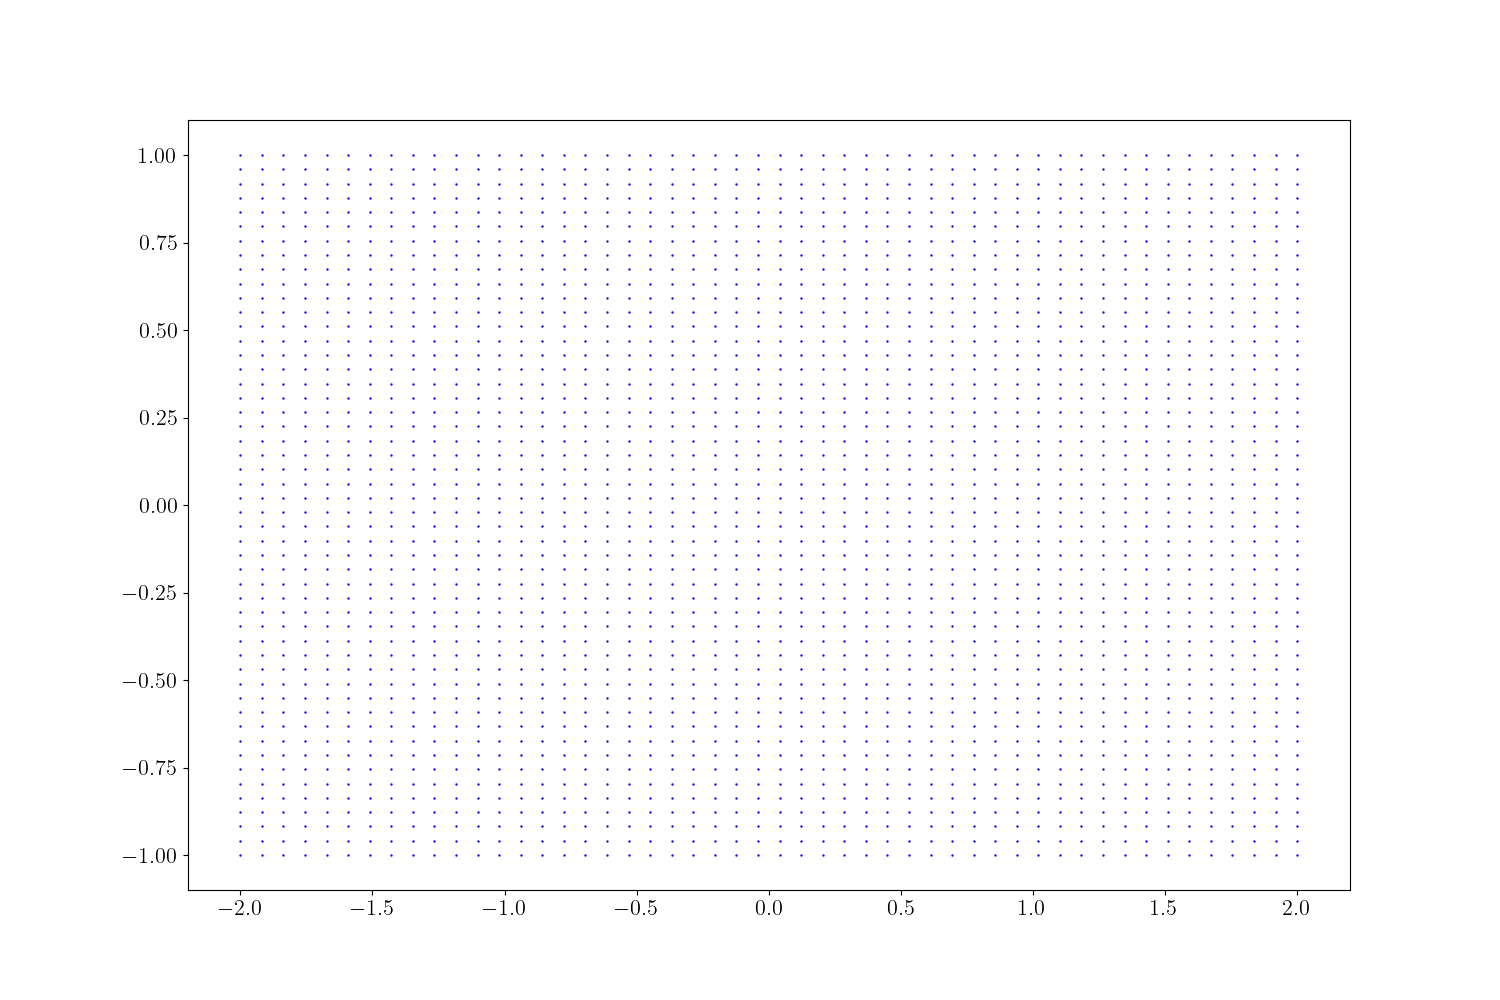
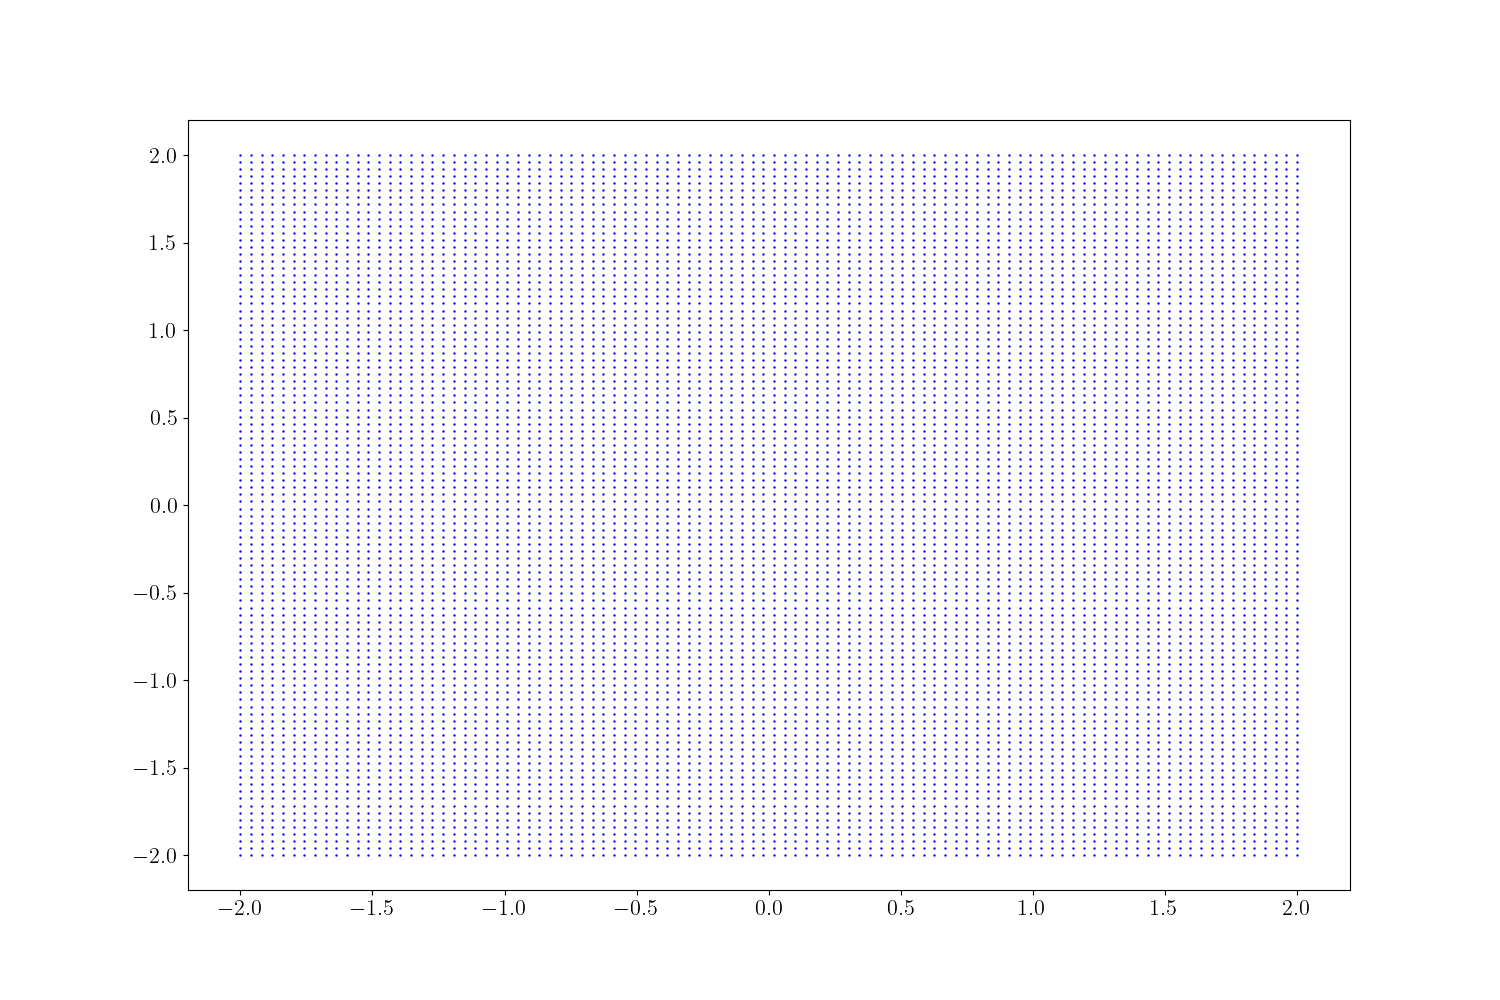
Fixed my Mandelbrot set function, it is still rather slow

diff --git a/Tareas/mandelbrot.py b/Tareas/mandelbrot.py
@@ -31,78 +31,85 @@ rc("text", usetex=True)
 #                                   CONSTANTS                                  #
 # ---------------------------------------------------------------------------- #
 INITIAL_VALUE = 0 + 0j
-RESOLUTION = 1000
-COMPLEX_MESH = np.ogrid[-2: 2: RESOLUTION * 1j, -2: 2: RESOLUTION * 1j]
+RESOLUTION = 100
+# COMPLEX_MESH = np.ogrid[-2: 2: RESOLUTION * 1j, -2: 2: RESOLUTION * 1j]
+REAL = np.linspace(-2, 0.48, RESOLUTION)
+IMAG = np.linspace(-1.12, 1.12, RESOLUTION)
+# COMPLEX_MESH = np.meshgrid(X, Y)
+# COMPLEX_MESH = np.ogrid[-2: 2: RESOLUTION * 1j, -2: 2: RESOLUTION * 1j]
 ITERATIONS = 30 
 EPSILON = 0.1
+TOWARDS_INF = 4
 # ---------------------------------------------------------------------------- #
 #                             z_{n + 1} = z_n^2 + c                            #
+
+#                                  If z_0 = 0                                  #
+
+#                           z_1 = 0^2 + c; c = a + bi                          #
+#                                 z_2 = c^2 + c                                #
+#                             z_2 = (a + bi)^2 + c                             #
+#                         z_2 = (a^2 + b^2) + 2abi + c                         #
 # ---------------------------------------------------------------------------- #
 def mandelbrot_set_equation(current_value: complex, c: complex) -> complex:
-    next_value = current_value**2 + c
+    a = current_value.real
+    b = current_value.imag
+    ac = c.real
+    ab = c.imag
+
+    next_a = a**2 - b**2
+    next_b = 2*a*b
+
+    next_value = complex(next_a + ac, next_b + ab)
+    # next_value = complex(a**2 - b**2, 2*a*b) + c
     return next_value
 
-def show_mandelbrot_set(mesh: list):
+def show_mandelbrot_set(real_range: np.ndarray, imag_range: np.ndarray):
+    #TODO - FIX THIS FUNCTION. OVERFLOWS FOR SOME REASON
     # Iterating the mesh
     plt.figure(figsize=(15,10))
-    for row in mesh[0]:
-        for col in mesh[1]:
-            for real in row:
-                # print(f"{real=}")
-                for imaginary in col:
-                    # Complex variable
-                    c = complex(real, imaginary)
-                    print(f"{c=}")
-                    count = 0  # Counter
-                    current_value = mandelbrot_set_equation(INITIAL_VALUE, c=c)
-                    next_value = mandelbrot_set_equation(current_value=current_value, c=c)
-                    while(count < ITERATIONS and not isclose(next_value, current_value, rel_tol=EPSILON)):
-                        current_value = next_value
-                        next_value = mandelbrot_set_equation(current_value=current_value, c=c)
-                        count += 1
-                    if count == ITERATIONS:
-                        plt.scatter(real, imaginary, marker='x', color='black', s=0.5)
-                    else:
-                        plt.scatter(real, imaginary, marker='.', color='blue', s=0.5, alpha=0.3)
+    for real in real_range:
+        for imag in imag_range:
+            # Complex variable
+            c = complex(real, imag)
+            count = 0  # Counter
+            current_value = mandelbrot_set_equation(INITIAL_VALUE, c=c)
+            while(count < ITERATIONS and abs(current_value.real + current_value.imag) < TOWARDS_INF):
+                next_value = mandelbrot_set_equation(current_value=current_value, c=c)
+                current_value = next_value
+                count += 1
+            if count == ITERATIONS:
+                plt.scatter(real, imag, marker='x', color='black', s=0.5)
+            else:
+                plt.scatter(real, imag, marker='.', color='blue', s=0.5, alpha=0.3)
 
-
-    plt.savefig("mandelbrot_test.png")
+    plt.savefig("mandelbrot_test_me.png")
 
 
 
 def run():
     pass
 
-def show_mesh(mesh: np.ndarray):
-    plt.figure(figsize=(15,10))
-    plt.scatter(COMPLEX_MESH[0], COMPLEX_MESH[1], c='blue', s=0.5)
-    plt.savefig("mesh_example.png")
-    
 
 if __name__ == "__main__":
-    y, x = np.ogrid[-1.4: 1.4: RESOLUTION*1j, -1.8: 1: RESOLUTION*1j]
-    a_array = x + y*1j
-    z_array = np.zeros(a_array.shape)
-    iterations_till_divergence = ITERATIONS + np.zeros(a_array.shape)
-    print(f"{iterations_till_divergence=}")
-    for h in range(RESOLUTION):
-        for w in range(RESOLUTION):
-            z = z_array[h][w]
-            a = a_array[h][w]
-            for i in range(ITERATIONS):
-                z = z**2 + a
-                if z * np.conj(z) > 4:  # DE DONDE SALE ESE 4!!!!????
-                    iterations_till_divergence[h][w] = i
-                    break
+    # y, x = np.ogrid[-1.4: 1.4: RESOLUTION*1j, -1.8: 1: RESOLUTION*1j]
+    # a_array = x + y*1j
+    # z_array = np.zeros(a_array.shape)
+    # iterations_till_divergence = ITERATIONS + np.zeros(a_array.shape)
+    # print(f"{iterations_till_divergence=}")
+    # for h in range(RESOLUTION):
+        # for w in range(RESOLUTION):
+            # z = z_array[h][w]
+            # a = a_array[h][w]
+            # for i in range(ITERATIONS):
+                # z = z**2 + a
+                # if z * np.conj(z) > 4:  # DE DONDE SALE ESE 4!!!!????
+                    # iterations_till_divergence[h][w] = i
+                    # break
+# 
+    # plt.imshow(iterations_till_divergence, cmap="viridis")
+    # plt.savefig("mandelbrot_example.png")
 
-    plt.imshow(iterations_till_divergence, cmap="viridis")
-    plt.savefig("mandelbrot_example.png")
-
-    # print(f"{a_array.shape=}")
-    # print(f"{y=}")
-    # print(f"{x=}")
-    # show_mesh(COMPLEX_MESH)
-    # show_mandelbrot_set(mesh=COMPLEX_MESH)
+    show_mandelbrot_set(REAL, IMAG)
     # run()
     # for i in COMPLEX_MESH[0]:
         # print(i)
